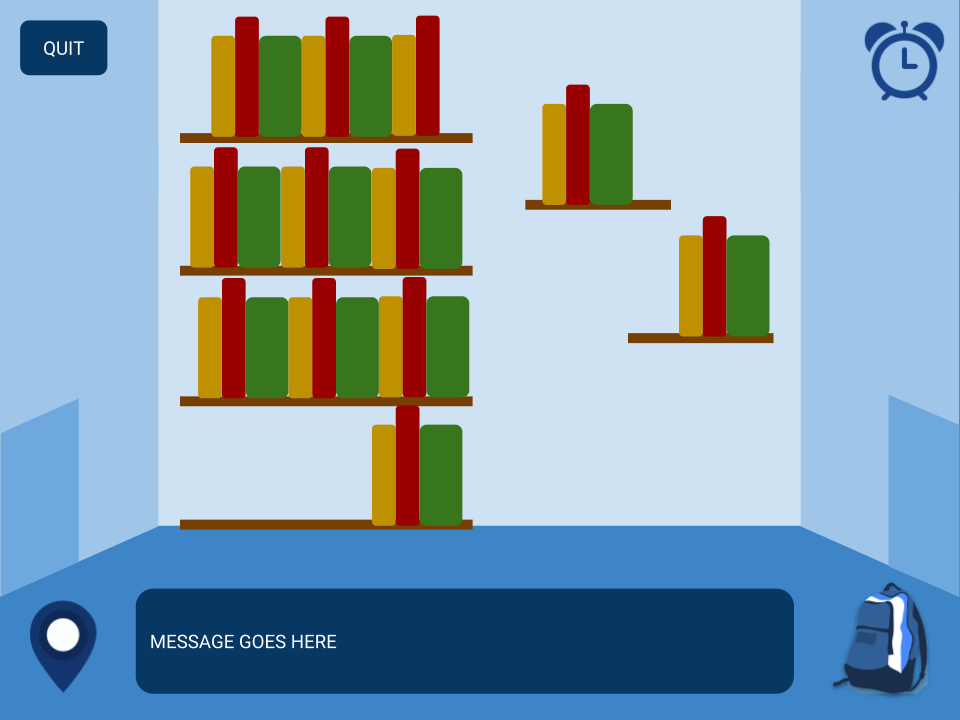
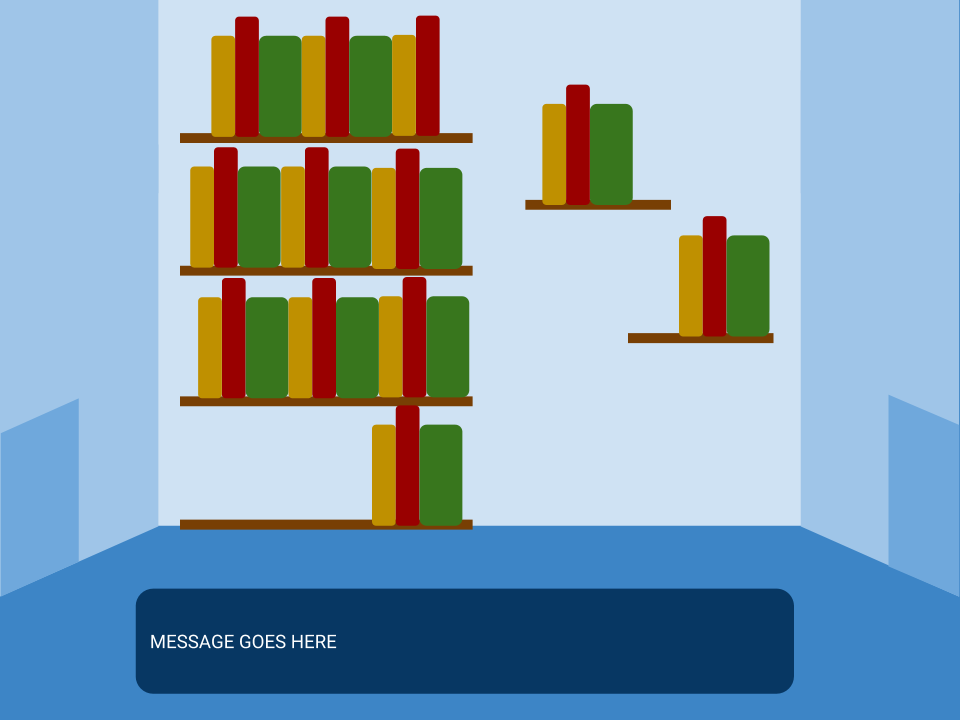
display images in buttons

diff --git a/Layout.py b/Layout.py
@@ -35,7 +35,6 @@ class Foyer(tk.Frame):
         
         im = PIL.Image.open('library.png')
         photo = PIL.ImageTk.PhotoImage(im)
-        self.photo = tk.PhotoImage(im)
         screen = w.create_image((0,0), image = photo, anchor = 'nw')
         w.image = photo
         
@@ -50,6 +49,15 @@ class Foyer(tk.Frame):
         quit = tk.Button(self, text = "Quit", bg='blue', fg = 'white', 
                    command = lambda: master.switch_frame(End))
         quit_window = w.create_window(20,20, window = quit)
+        
+        position = PIL.Image.open('map.png')
+        position = position.resize((70,90))
+        pos = PIL.ImageTk.PhotoImage(position)
+        
+        loc = tk.Button(self, image = pos,
+                   command=lambda: master.switch_frame(Cage))
+        loc.image = pos
+        loc_window = w.create_window(30, 600, window = loc)
         
 # initialize Edit Filter screen and widgets
 class Cage(tk.Frame):
